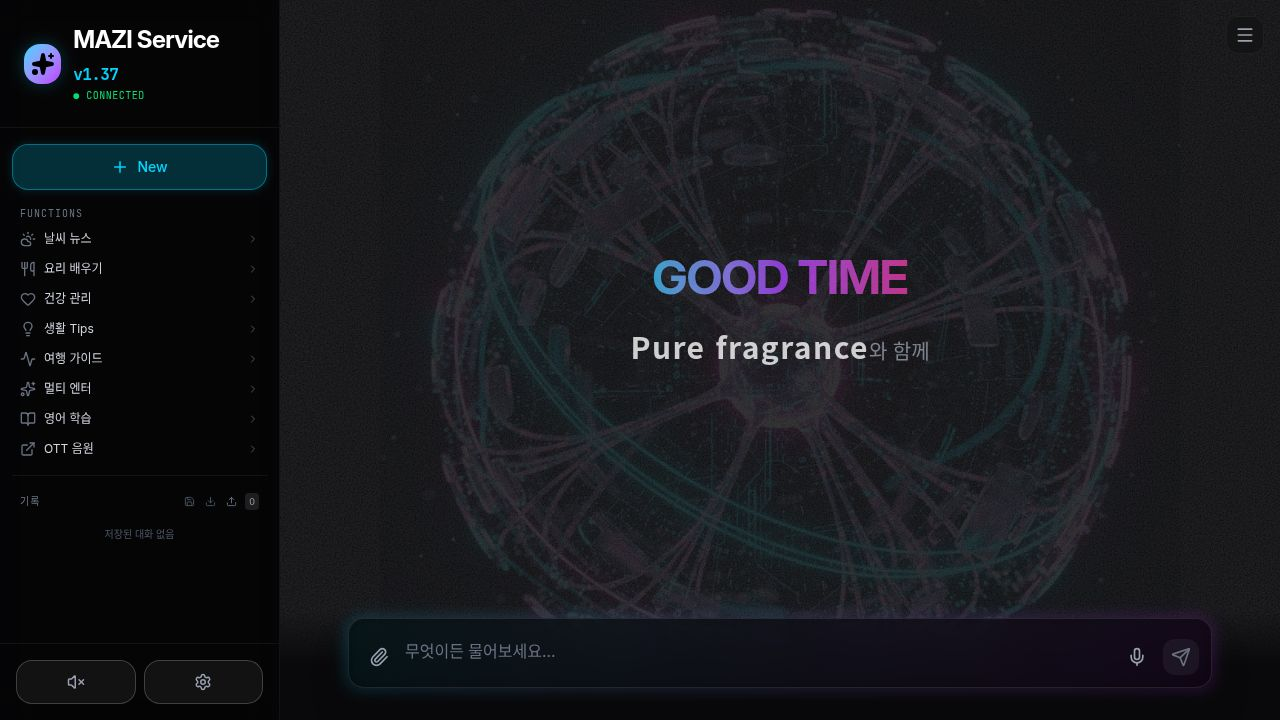
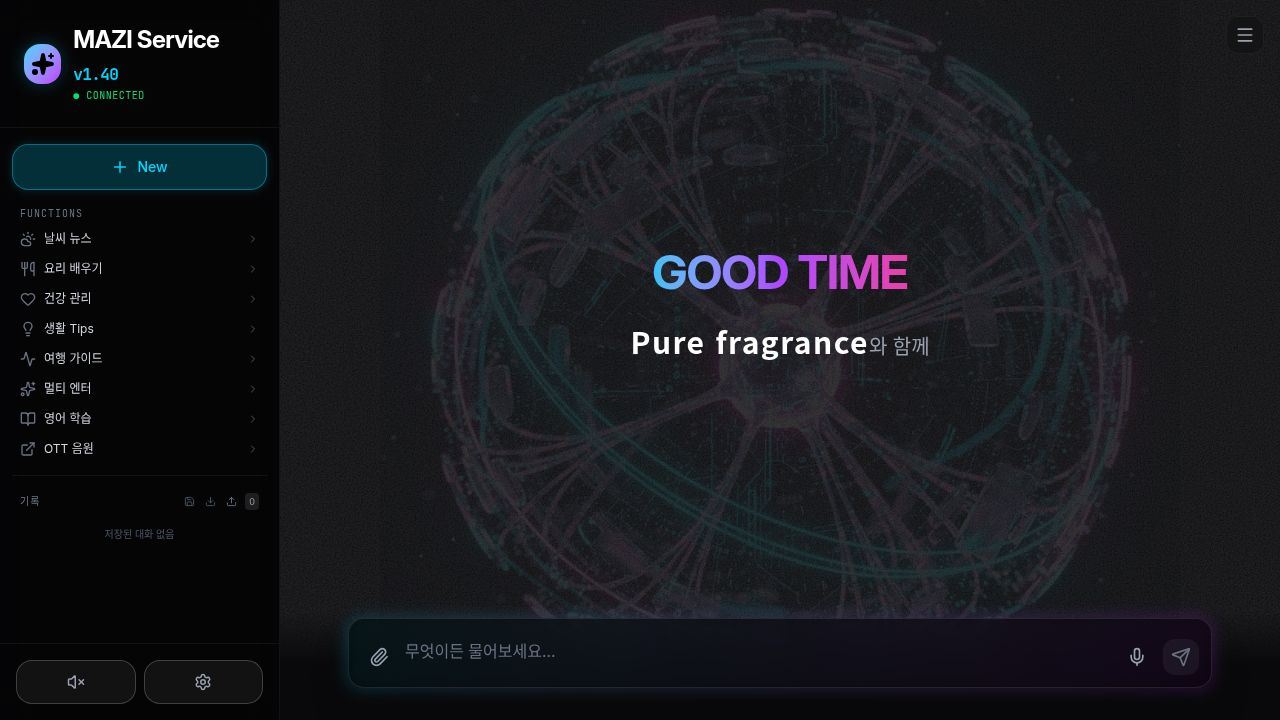
Add loading indicator for audio playback preparation
Introduces a loading state in `MessageBubble` and `Home.tsx` to visually indicate when audio is being prepared for playback, utilizing `Loader2` icon and managing `loadingAudioMessageId` state.

Replit-Commit-Author: Agent
Replit-Commit-Session-Id: b53bbd0a-6b91-4287-a6fb-4cf35cea0462
Replit-Commit-Checkpoint-Type: full_checkpoint
Replit-Commit-Event-Id: 693c97cc-8d96-4b32-80be-41d0a0e8bc9d
Replit-Commit-Screenshot-Url: https://storage.googleapis.com/screenshot-production-us-central1/17fa975f-c6c1-48b8-9661-623460284cfc/b53bbd0a-6b91-4287-a6fb-4cf35cea0462/SetvNoY
Replit-Helium-Checkpoint-Created: true

Changed region(s): [[0.5, 0.3361, 0.7188, 0.4278], [0.4688, 0.4583, 0.7188, 0.5194], [0.0625, 0.0917, 0.0938, 0.1222]]

diff --git a/client/src/components/chat/message-bubble.tsx b/client/src/components/chat/message-bubble.tsx
@@ -3,7 +3,7 @@ import ReactMarkdown from 'react-markdown';
 import { Prism as SyntaxHighlighter } from 'react-syntax-highlighter';
 import { atomDark } from 'react-syntax-highlighter/dist/esm/styles/prism';
 import { motion } from 'framer-motion';
-import { User, Bot, Copy, Check, Volume2, VolumeX, FileText, Printer } from 'lucide-react';
+import { User, Bot, Copy, Check, Volume2, VolumeX, FileText, Printer, Loader2 } from 'lucide-react';
 import { cn } from '@/lib/utils';
 
 interface MessageBubbleProps {
@@ -14,6 +14,7 @@ interface MessageBubbleProps {
   onPlayAudio?: (text: string) => void;
   onStopAudio?: () => void;
   isCurrentlyPlaying?: boolean;
+  isLoadingAudio?: boolean;
 }
 
 export const MessageBubble = ({ 
@@ -23,7 +24,8 @@ export const MessageBubble = ({
   isError, 
   onPlayAudio,
   onStopAudio,
-  isCurrentlyPlaying = false
+  isCurrentlyPlaying = false,
+  isLoadingAudio = false
 }: MessageBubbleProps) => {
   const isUser = role === 'user';
   const [copied, setCopied] = useState(false);
@@ -225,17 +227,28 @@ export const MessageBubble = ({
               {onPlayAudio && (
                 <button 
                   onClick={handlePlayStop}
+                  disabled={isLoadingAudio}
                   className={cn(
                     "flex items-center gap-1.5 px-2.5 py-1.5 rounded-lg text-xs transition-all ml-auto",
-                    isCurrentlyPlaying 
-                      ? "bg-red-500/20 text-red-400 hover:bg-red-500/30" 
-                      : "bg-primary/20 text-primary hover:bg-primary/30"
+                    isLoadingAudio
+                      ? "bg-yellow-500/20 text-yellow-400 cursor-wait"
+                      : isCurrentlyPlaying 
+                        ? "bg-red-500/20 text-red-400 hover:bg-red-500/30" 
+                        : "bg-primary/20 text-primary hover:bg-primary/30"
                   )}
-                  title={isCurrentlyPlaying ? "정지" : "음성 재생"}
+                  title={isLoadingAudio ? "준비 중..." : isCurrentlyPlaying ? "정지" : "음성 재생"}
                   data-testid="button-play-audio"
                 >
-                  {isCurrentlyPlaying ? <VolumeX size={14} /> : <Volume2 size={14} />}
-                  <span className="hidden sm:inline">{isCurrentlyPlaying ? '정지' : '재생'}</span>
+                  {isLoadingAudio ? (
+                    <Loader2 size={14} className="animate-spin" />
+                  ) : isCurrentlyPlaying ? (
+                    <VolumeX size={14} />
+                  ) : (
+                    <Volume2 size={14} />
+                  )}
+                  <span className="hidden sm:inline">
+                    {isLoadingAudio ? '준비 중' : isCurrentlyPlaying ? '정지' : '재생'}
+                  </span>
                 </button>
               )}
             </div>

diff --git a/client/src/pages/Home.tsx b/client/src/pages/Home.tsx
@@ -12,7 +12,7 @@ import generatedImage from '@assets/generated_images/futuristic_abstract_ai_core
 import { ChatSession } from '@/types';
 
 // App Version - 코드 수정 시 반드시 +0.01 업데이트
-const APP_VERSION = "v1.39";
+const APP_VERSION = "v1.40";
 
 const SESSIONS_STORAGE_KEY = 'mazi-chat-sessions';
 const CURRENT_SESSION_KEY = 'mazi-current-session';
@@ -51,6 +51,7 @@ export default function Home() {
   const isTTSActiveRef = useRef(isTTSActive);
   const [isTTSPlaying, setIsTTSPlaying] = useState(false);
   const [playingMessageId, setPlayingMessageId] = useState<string | null>(null);
+  const [loadingAudioMessageId, setLoadingAudioMessageId] = useState<string | null>(null);
 
   // TTS toggle handler - immediately stop audio when toggled off
   const handleTTSToggle = () => {
@@ -391,11 +392,14 @@ export default function Home() {
     if (!text) return;
     try {
       audioPlayer.stop();
-      setPlayingMessageId(messageId || null);
+      setLoadingAudioMessageId(messageId || null);
       const audioBuffer = await generateSpeech(text);
+      setLoadingAudioMessageId(null);
+      setPlayingMessageId(messageId || null);
       audioPlayer.play(audioBuffer);
     } catch (e) {
       console.error("Manual TTS failed", e);
+      setLoadingAudioMessageId(null);
       setPlayingMessageId(null);
     }
   };
@@ -853,6 +857,7 @@ export default function Home() {
                   onPlayAudio={(text) => handlePlayAudio(text, msg.id)}
                   onStopAudio={handleStopAudio}
                   isCurrentlyPlaying={playingMessageId === msg.id && isTTSPlaying}
+                  isLoadingAudio={loadingAudioMessageId === msg.id}
                 />
               ))}
               
